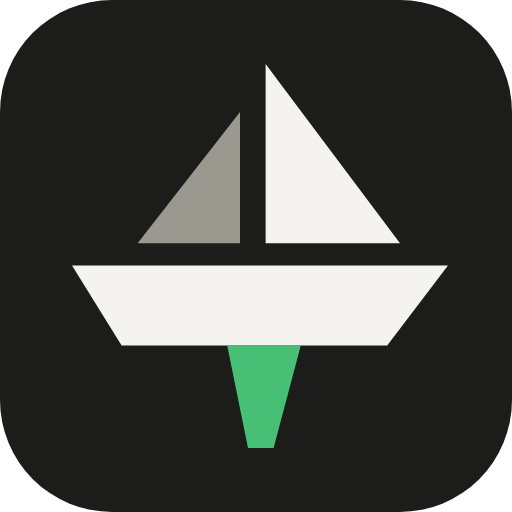
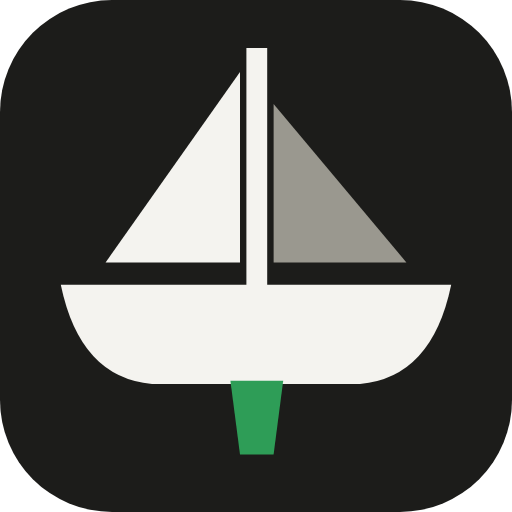
[EKR-110] New mark: a sloop with a mast and a narrow green fin keel
The favicon, the README logos, the loader's boat and the PNG icons (and so the
tray, which draws icon-192.png) take the new sloop. The keel is #237a45 on the
light tile and #2e9d57 on the dark one; the loader reads it from a new --keel
token with the same pair, its waves following the new waterline.

Claude-Session: https://claude.ai/code/session_01XKUGyrwua2cJHTgmPNEaYr

Changed region(s): [[0.125, 0.0938, 0.875, 0.9062]]

diff --git a/web/src/ui/Loader.tsx b/web/src/ui/Loader.tsx
@@ -6,10 +6,12 @@ import './loader.css'
 export type LoaderFit = 'block' | 'fill' | 'page'
 
 // The boat of the logo (web/public/favicon.svg), moved 8 units right to sit in the middle of a 48-wide sea.
-const SAIL = 'M24.6 4v11.2H33Z'
-const JIB = 'M23 7v8.2H16.6Z'
-const HULL = 'M12.5 16.6H36l-3.8 5H15.6Z'
-const KEEL = 'M22.2 21.6h4.6L25.1 28h-1.6Z'
+const MAST = 'M23.4 3h1.3v15h-1.3Z'
+const SAIL = 'M23 4.5V16.4H14.6Z'
+const JIB = 'M25.1 6.5V16.4H33.4Z'
+const HULL = 'M11.8 17.8H36.2Q35 23.6 30.5 24H17.5Q13 23.6 11.8 17.8Z'
+const KEEL = 'M22.4 23.8h3.3L25.1 28.4h-2.1Z'
+const WATERLINE = 24
 // Two waves a period (16 units) wider than the sea on the left, so sliding them one period left loops without a seam.
 const WAVE = (y: number) => `M-16 ${y}q4-2.4 8 0${'t8 0'.repeat(9)}`
 
@@ -22,6 +24,7 @@ export function Loader({ phase, label, fit = 'block' }: { phase: Exclude<LoaderP
       <div className="ui-loader__scene" aria-hidden="true">
         <svg className="ui-loader__boat" viewBox="0 0 48 34">
           <g className="ui-loader__hull">
+            <path className="ui-loader__sail" d={MAST} />
             <path className="ui-loader__sail" d={SAIL} />
             <path className="ui-loader__jib" d={JIB} />
             <path className="ui-loader__sail" d={HULL} />
@@ -29,8 +32,8 @@ export function Loader({ phase, label, fit = 'block' }: { phase: Exclude<LoaderP
           </g>
         </svg>
         <svg className="ui-loader__sea" viewBox="0 0 48 34">
-          <path className="ui-loader__wave" d={WAVE(21.6)} />
-          <path className="ui-loader__wave ui-loader__wave--deep" d={WAVE(27)} />
+          <path className="ui-loader__wave" d={WAVE(WATERLINE)} />
+          <path className="ui-loader__wave ui-loader__wave--deep" d={WAVE(WATERLINE + 3.4)} />
         </svg>
       </div>
       <p className="ui-loader__label">{label}</p>

diff --git a/web/src/styles.css b/web/src/styles.css
@@ -27,6 +27,8 @@
   --lamp-idle: #9a988f;
   /* A fix of a red main that is over: a service record, not a task, so a colour no other lamp has. */
   --lamp-fix: #7c5cd6;
+  /* The logo's keel (web/public/favicon.svg): the boat drawn dark on a light ground, so the deeper green. */
+  --keel: #237a45;
 
   --series-1: #2a78d6;
   --series-2: #eb6834;
@@ -147,6 +149,7 @@
   --accent: #7ea2ff;
 
   --lamp-done: #47c075;
+  --keel: #2e9d57;
   --lamp-working: #5b92ff;
   --lamp-waiting: #f0bd3c;
   --lamp-error: #ff6b5f;

diff --git a/web/src/ui/loader.css b/web/src/ui/loader.css
@@ -52,7 +52,7 @@
 }
 
 .ui-loader__keel {
-  fill: var(--lamp-done);
+  fill: var(--keel);
 }
 
 /* The sea fades out at both sides, so its ends never show. */

diff --git a/docs/web/interface.md b/docs/web/interface.md
@@ -36,7 +36,7 @@
 - On a narrow screen (≤760 px, `useNarrow`) the header is one row: the brand with the project key, the waiting sign with its count and a burger (`web/src/layout/Menu.tsx`) whose dot is the worst of the checks and the account. The burger's sheet is the wide header's blocks in one column, a line between them: the Stats and Log rows (the log's count at the right); the work block as rows (Chains with the running count at the right, the queue panel unfolding under it; Questions with its count, while someone waits, BTN-1162); the account card laid out in place (`AccountSheet`: the name opens the accounts drawer, then both limits with their resets, then the other accounts projects run on, a part each); and the gear's items as rows (`GearRows`: Status with its level at the right, Settings, Tools). A value of a row sits at its right edge, as an account's percentage does.
 - The status page `/status` (BTN-66, BTN-357, `web/src/pages/StatusPage.tsx`, the pure part in `status.ts`) is one centred column of at most 1100 px, everything at once. On top a band: "All is well", or the count of the checks that warn or fail (`problemsOf`, the failing first) with the first of them and its action. Then a tile per check of `systemChecks` (`web/src/layout/system.ts`: the server, the limits, the settings, Tally) in a `TileGrid`, two in a row up to 760 px: its dot and word, one line of `note` (when the limits shown were read — `RateLimits.updatedAt`, when Tally last ran), the `details` in a "?" tip, and the button of its `fix` (`CheckFix`: "Retry" for a lost server, otherwise the settings tab that fixes it — the config error's field by `configFixOf`, which the config banner uses too, Stats for a failing collector). Under them a card per tracker connection, one per profile in use (`EvenKeelState.trackers`, `docs/trackers.md`): its icon and name, at the right the state with the last good poll, a down one's error as a sentence (`trackerProblem`: a refused key, a timeout, an unreachable address, other; the raw error in the tip), the projects and task feeds it reads as tags by their labels — only those of a live connection not read for over 3 minutes (`staleReaders`, `STALE_READ_MS`) carry when they were — "Check", which reads its projects now (`chain/refresh` for each, a feed through its project, `refreshedProjects`), and "Open profile" (Settings → Trackers and CI, the primary button of a down one). A profile no project reads (the links' default) says so with "Add project". The built-in tracker's card is always first, even when no project runs on it (`idleBuiltin`, BTN-769), so a newcomer without other trackers never sees an empty list: "database available · N open tasks" (`openTasks`), its projects as tags, no "Check" or "Open profile" — there is nothing to connect. `?item=<key>` — a check's key or a profile's id — scrolls to that tile or card and lights it once (`block-glow`). The Tally check reads `EvenKeelState.tallyHealth` (`TallyService.health`, `src/stats/tally.ts`): stats not set up or turned off are neutral, waiting for the first run or a good last run are fine, a failed run warns, a collector halted until a restart or one meant to collect that does not run fails. The limits themselves stay in the header as two 2 px bars along its bottom edge, 5 hours on the left and the week on the right.
 - What the page is busy with: every request except polling goes through `activity.track` (`web/src/live/activity.ts`) and shows the bar at the top of the window (`ActivityBar`). `useCommand` marks the pressed button `aria-busy` for the duration of its command, so a new command button needs nothing for its spinner. A command the service accepts at once and carries out later (`chain/restart`) keeps its button busy with `useHold` until the state changes; a block that reloads with its previous data on screen sets `aria-busy` on itself and is dimmed.
-- The page installs as an app (`web/public/manifest.webmanifest`, `icon-*.png` icons are renders of `favicon.svg`, the `maskable` one has the mark with a margin for cropping). There is no service worker: the service serves a fresh `dist/web` anyway. The install button in Chrome appears only in a secure context: `localhost` or HTTPS; not on a bare `http://<IP>`.
+- The page installs as an app (`web/public/manifest.webmanifest`, `icon-*.png` icons are renders of `favicon.svg` in its light-scheme colours, made by hand in a browser — there is no generator: `icon-192`/`icon-512` the whole tile on transparency, `apple-touch-icon.png` (180) and `icon-maskable-512.png` a full-bleed `#1c1c1a` square with the mark's 32-grid drawn at 144 px and at 0.725 of the side, centred, for the platform's crop). The tray icon of `service/EvenKeelTray.cs` draws `dist/web/icon-192.png`. There is no service worker: the service serves a fresh `dist/web` anyway. The install button in Chrome appears only in a secure context: `localhost` or HTTPS; not on a bare `http://<IP>`.
 
 ## Theme (BTN-1089)
 

diff --git a/docs/design.md b/docs/design.md
@@ -27,6 +27,7 @@ Only these values. A colour, size, radius or duration that is not here is either
 | Page, card, inner box, line | `--bg`, `--surface`, `--surface-muted`, `--border` |
 | Text, quiet text, links and focus | `--fg`, `--fg-muted`, `--accent` |
 | A state | `--lamp-done` (fine), `--lamp-working`, `--lamp-waiting` (attention), `--lamp-error` (error or limit), `--lamp-idle`, `--lamp-fix` |
+| The logo's keel (the loader's boat), as in `favicon.svg` | `--keel` |
 | A project or a series in a chart | `--series-1`…`--series-8`, `--series-other` |
 | A neutral share (models, entry points) | `--tone-1`…`--tone-6` |
 | A band | `--warn-bg`/`--warn-fg`, `--error-bg`/`--error-fg` |
